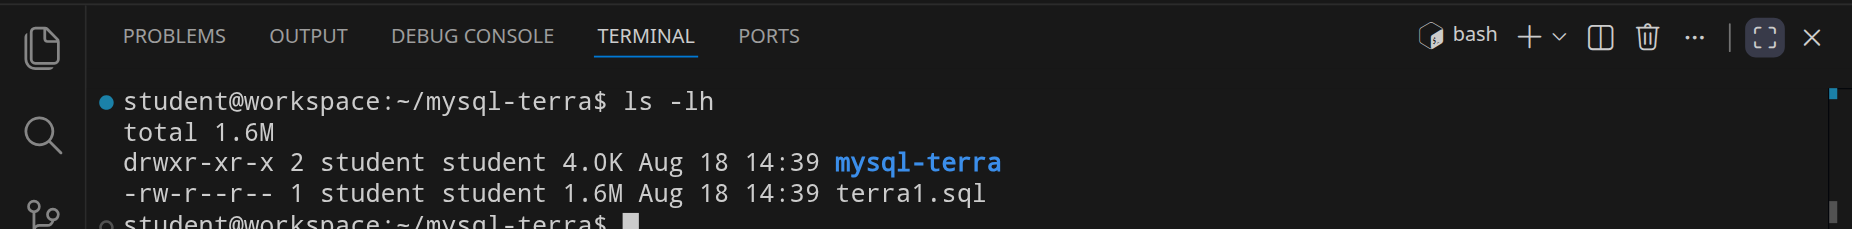
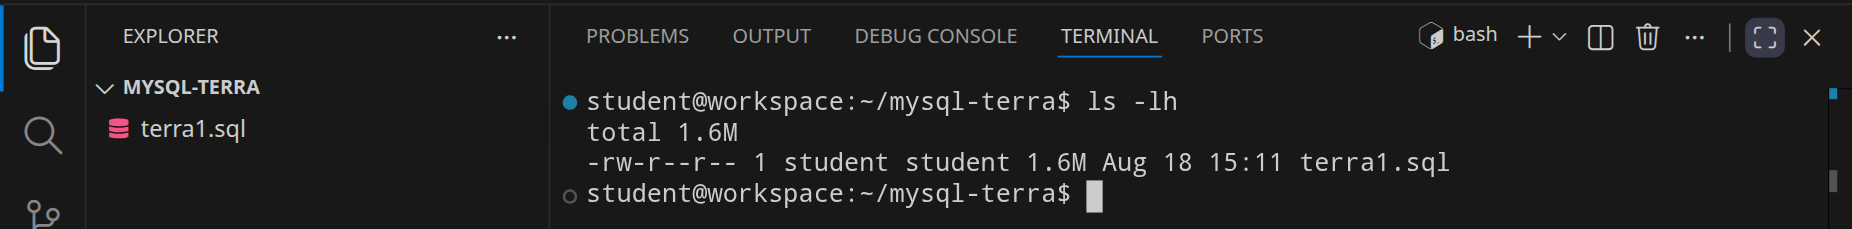
yay

diff --git a/src/content/mysql/mysql.md b/src/content/mysql/mysql.md
@@ -17,8 +17,7 @@ show-left-sidebar
 
 <img class='full' src='fresh-start.webp' alt=''>
 
-Schließe die linken Seitenleiste, indem du <kbd>Strg</kbd><kbd>B</kbd> drückst, um mehr Platz zu haben.
-Öffne als nächstes das Terminal, indem du den Shortcut <kbd>Strg</kbd><kbd>J</kbd> drückst. Dein Workspace sollte jetzt ungefähr so aussehen:
+Wir erstellen nun ein Verzeichnis für unser MySQL-Experiment. Klicke dazu auf »Open Folder« und gib `mysql-terra` ein:
 
 <!-- tutorial-screenshot
 press: Control+K
@@ -29,6 +28,8 @@ type: mysql-terra
 
 <img class='full' src='open-folder.webp' alt=''>
 
+Da das Verzeichnis noch nicht existiert, wirst du gefragt, ob das Verzeichnis erstellt werden soll. Bestätige die Frage mit <kbd>Enter</kbd>:
+
 <!-- tutorial-screenshot
 press: Enter
 wait-for-text: create it
@@ -36,39 +37,20 @@ wait-for-text: create it
 
 <img class='full' src='open-folder-confirm.webp' alt=''>
 
+Öffne anschließend das Terminal:
+
 <!-- tutorial-screenshot
 press: Enter
 sleep: 1
--->
-
-<img class='full' src='open-folder-ready.webp' alt=''>
-
-<!-- tutorial-screenshot
-hide-left-sidebar
+click: Next Up
 terminal-open
 -->
 
 <img class='full' src='got-terminal.webp' alt=''>
 
-Erstelle nun das Verzeichnis `mysql-terra`, indem du folgenden Befehl eingibst:
-
-```bash
-mkdir mysql-terra
-```
-
-<!-- tutorial-screenshot
-terminal-maximize
-terminal-run: mkdir mysql-terra
-terminal-wait-for-prompt
-crop-top: 6.25%
-crop-bottom: 74%
--->
-
-<img class='full' src='mkdir-terra.webp' alt=''>
-
 <img src='../common/maximize-terminal.webp' class='r' style='width: 25em;' alt=''>
 
-Du kannst das Terminal auch maximieren, indem du auf das Symbol in der rechten oberen Ecke des Terminals klickst. Die linke Seitenleiste kannst du jederzeit mit <kbd>Strg</kbd><kbd>B</kbd> ein- und ausblenden.
+Du kannst das Terminal auch maximieren, indem du auf das Symbol in der rechten oberen Ecke des Terminals klickst.
 
 ## Beispieldaten herunterladen
 
@@ -81,47 +63,31 @@ wget https://github.com/specht/workspace-files/raw/main/terra1.sql
 Die Ausgabe sollte in etwa so aussehen:
 
 <!-- tutorial-screenshot
+terminal-maximize
 terminal-run: clear
 terminal-run: wget https://github.com/specht/workspace-files/raw/main/terra1.sql
 terminal-wait-for-prompt
+wait-for-file: mysql-terra/terra1.sql
+sleep: 0.5
 -->
 
 <img class='full' src='wget.webp' alt=''>
 
-Das Programm `wget` können wir dazu verwenden, um Dateien aus dem Internet herunterzuladen.
-Die Datei wird standardmäßig im aktuellen Verzeichnis gespeichert. Schau nach, ob die Datei
-angekommen ist, indem du den Befehl `ls -lh` (kurz für »list human-readable«) eingibst:
+Klicke auf die Datei, um sie zu öffnen. Es befinden sich Daten zu Ländern und Städten darin.
 
 <!-- tutorial-screenshot
-terminal-run: clear
-terminal-run: ls -lh
-terminal-wait-for-prompt
-crop-top: 6.25%
-crop-bottom: 69%
+open-file: terra1.sql
+press: Control+G
+press: 2
+press: 3
+press: 7
+press: 7
+press: Enter
+press: Control+J
+sleep: 0.5
 -->
-<img class='full' src='ls-lh.webp' alt=''>
 
-Die Datei ist also 1,6 MB groß.
-
-Um dir den Inhalt der Datei anzeigen zu lassen, kannst du den Befehl `less` verwenden. `less` ist ein Pager, der dir den Inhalt einer Datei seitenweise anzeigt. Um den Inhalt der Datei `terra1.sql` anzuzeigen, gib folgenden Befehl ein:
-
-```bash
-less terra1.sql
-```
-
-<div class='hint'>
-Du musst nicht den vollständigen Dateinamen schreiben. Schreib einfach <code>less te</code> und drücke <kbd>Tab</kbd>, um den Dateinamen automatisch zu <code>terra1.sql</code> vervollständigen zu lassen. Du kannst danach ganz normal weiterschreiben.
-</div>
-
-Du siehst jetzt die ersten Zeilen der Datei:
-
-<img class='full' src='less.webp' alt=''>
-
-Nutze die Pfeiltasten <kbd>←</kbd><kbd>↑</kbd><kbd>→</kbd><kbd>↓</kbd> sowie <kbd>Bild↑</kbd><kbd>Bild↓</kbd>, um durch die Datei zu navigieren.
-
-Wenn du etwas nach unten scrollst, siehst du, dass in der Datei zwei Tabellen enthalten sind, die Informationen zu Ländern und Orten enthalten.
-
-Drücke <kbd>Q</kbd>, um `less` zu beenden.
+<img class='full' src='terra1-sql.webp' alt=''>
 
 ## Beispieldaten importieren
 
@@ -130,6 +96,17 @@ Um die Beispieldatenbank in MySQL zu importieren, gib einfach den folgenden Befe
 ```bash
 mysql < terra1.sql
 ```
+
+<!-- tutorial-screenshot
+press: Control+B
+press: Control+J
+terminal-maximize
+#terminal-run: mysql < terra1.sql
+#terminal-wait-for-prompt
+sleep: 0.5
+-->
+
+<img class='full' src='sql-import.webp' alt=''>
 
 <div class='hint wink'>
 Hast du daran gedacht, die <kbd>Tab</kbd>-Taste zu verwenden, um den Dateinamen automatisch vervollständigen zu lassen?
